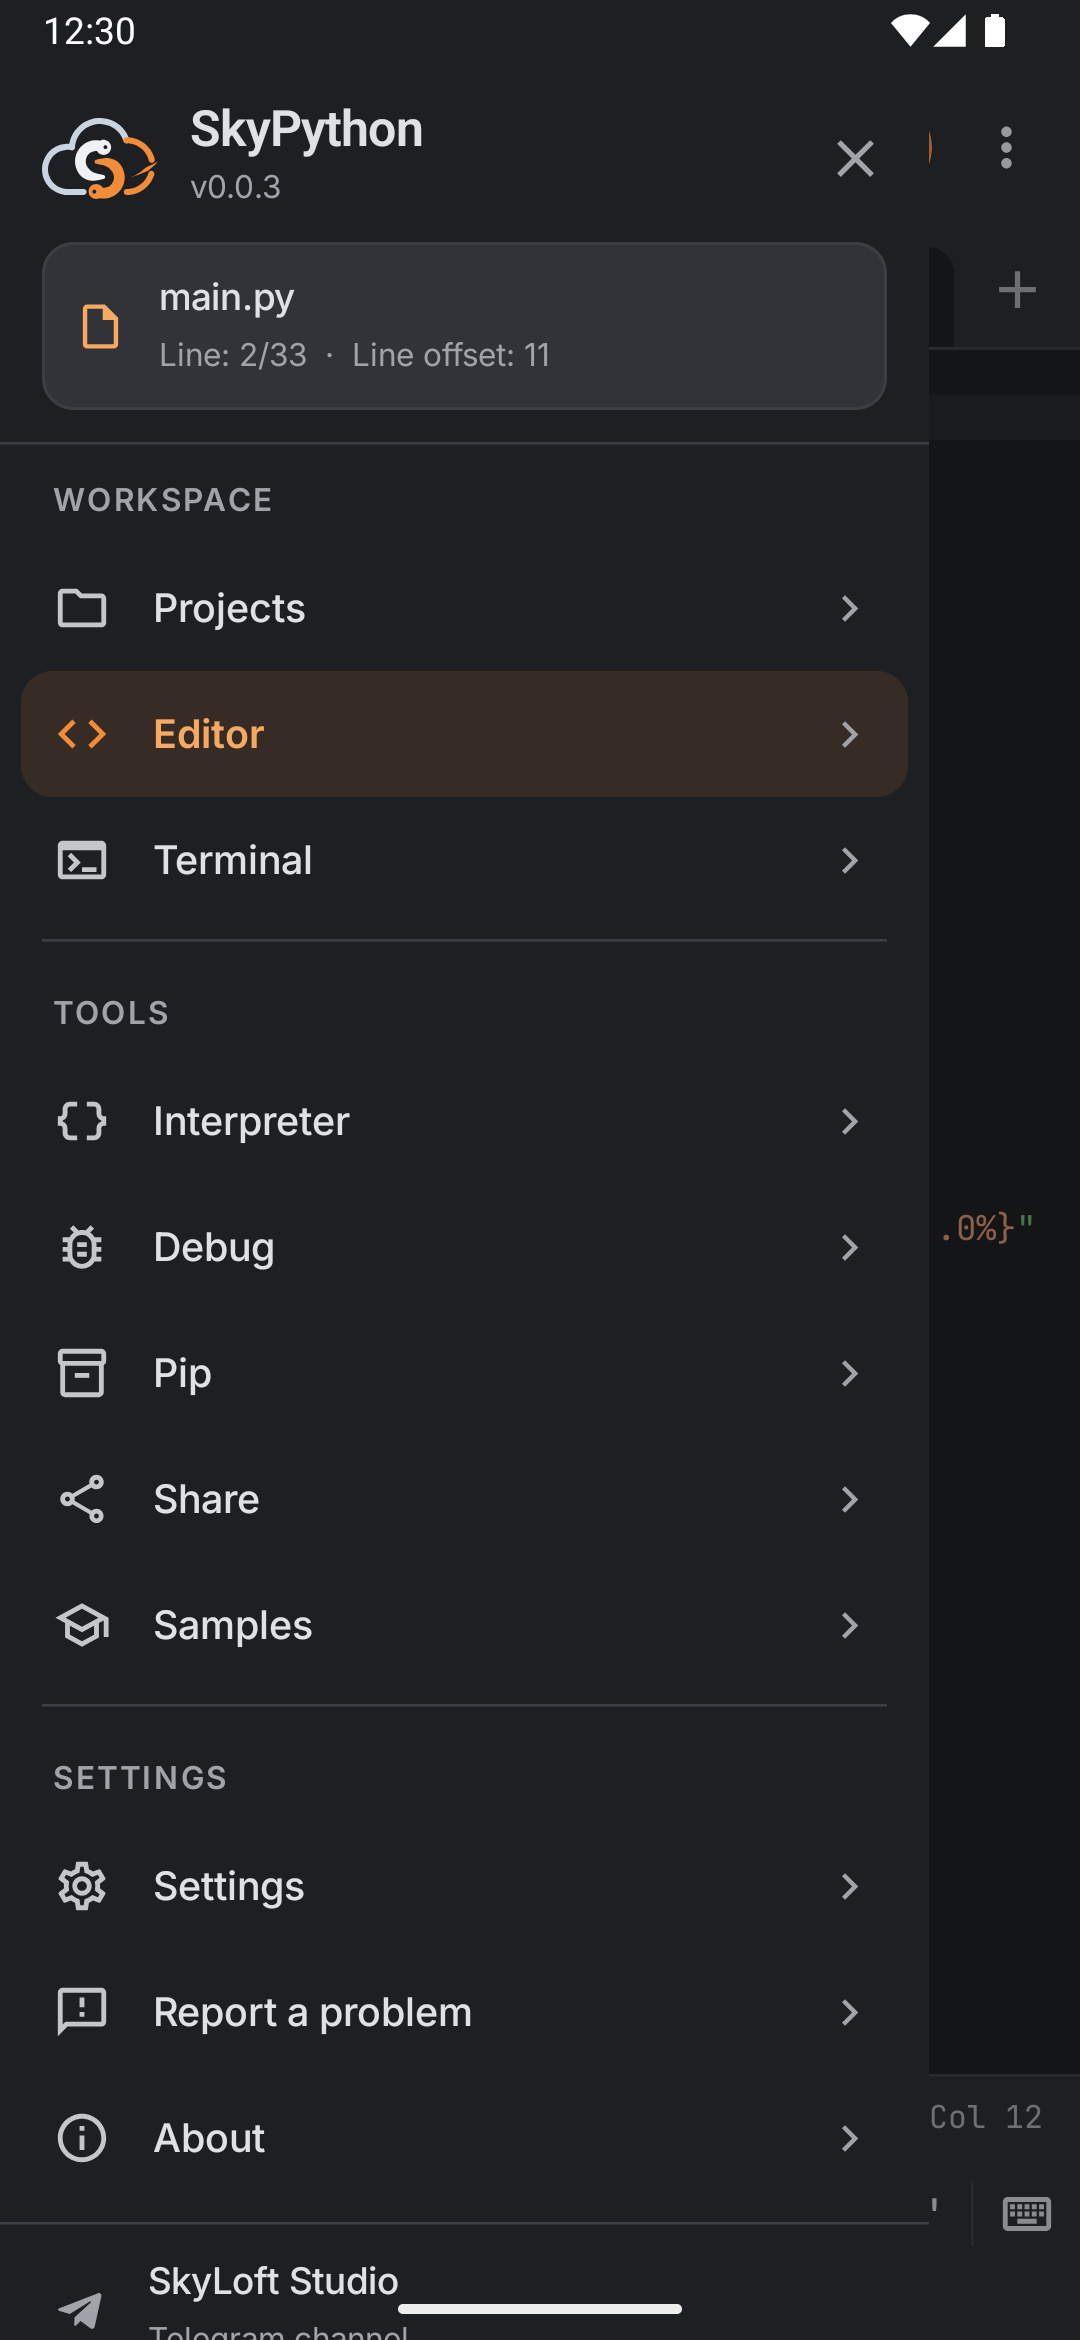
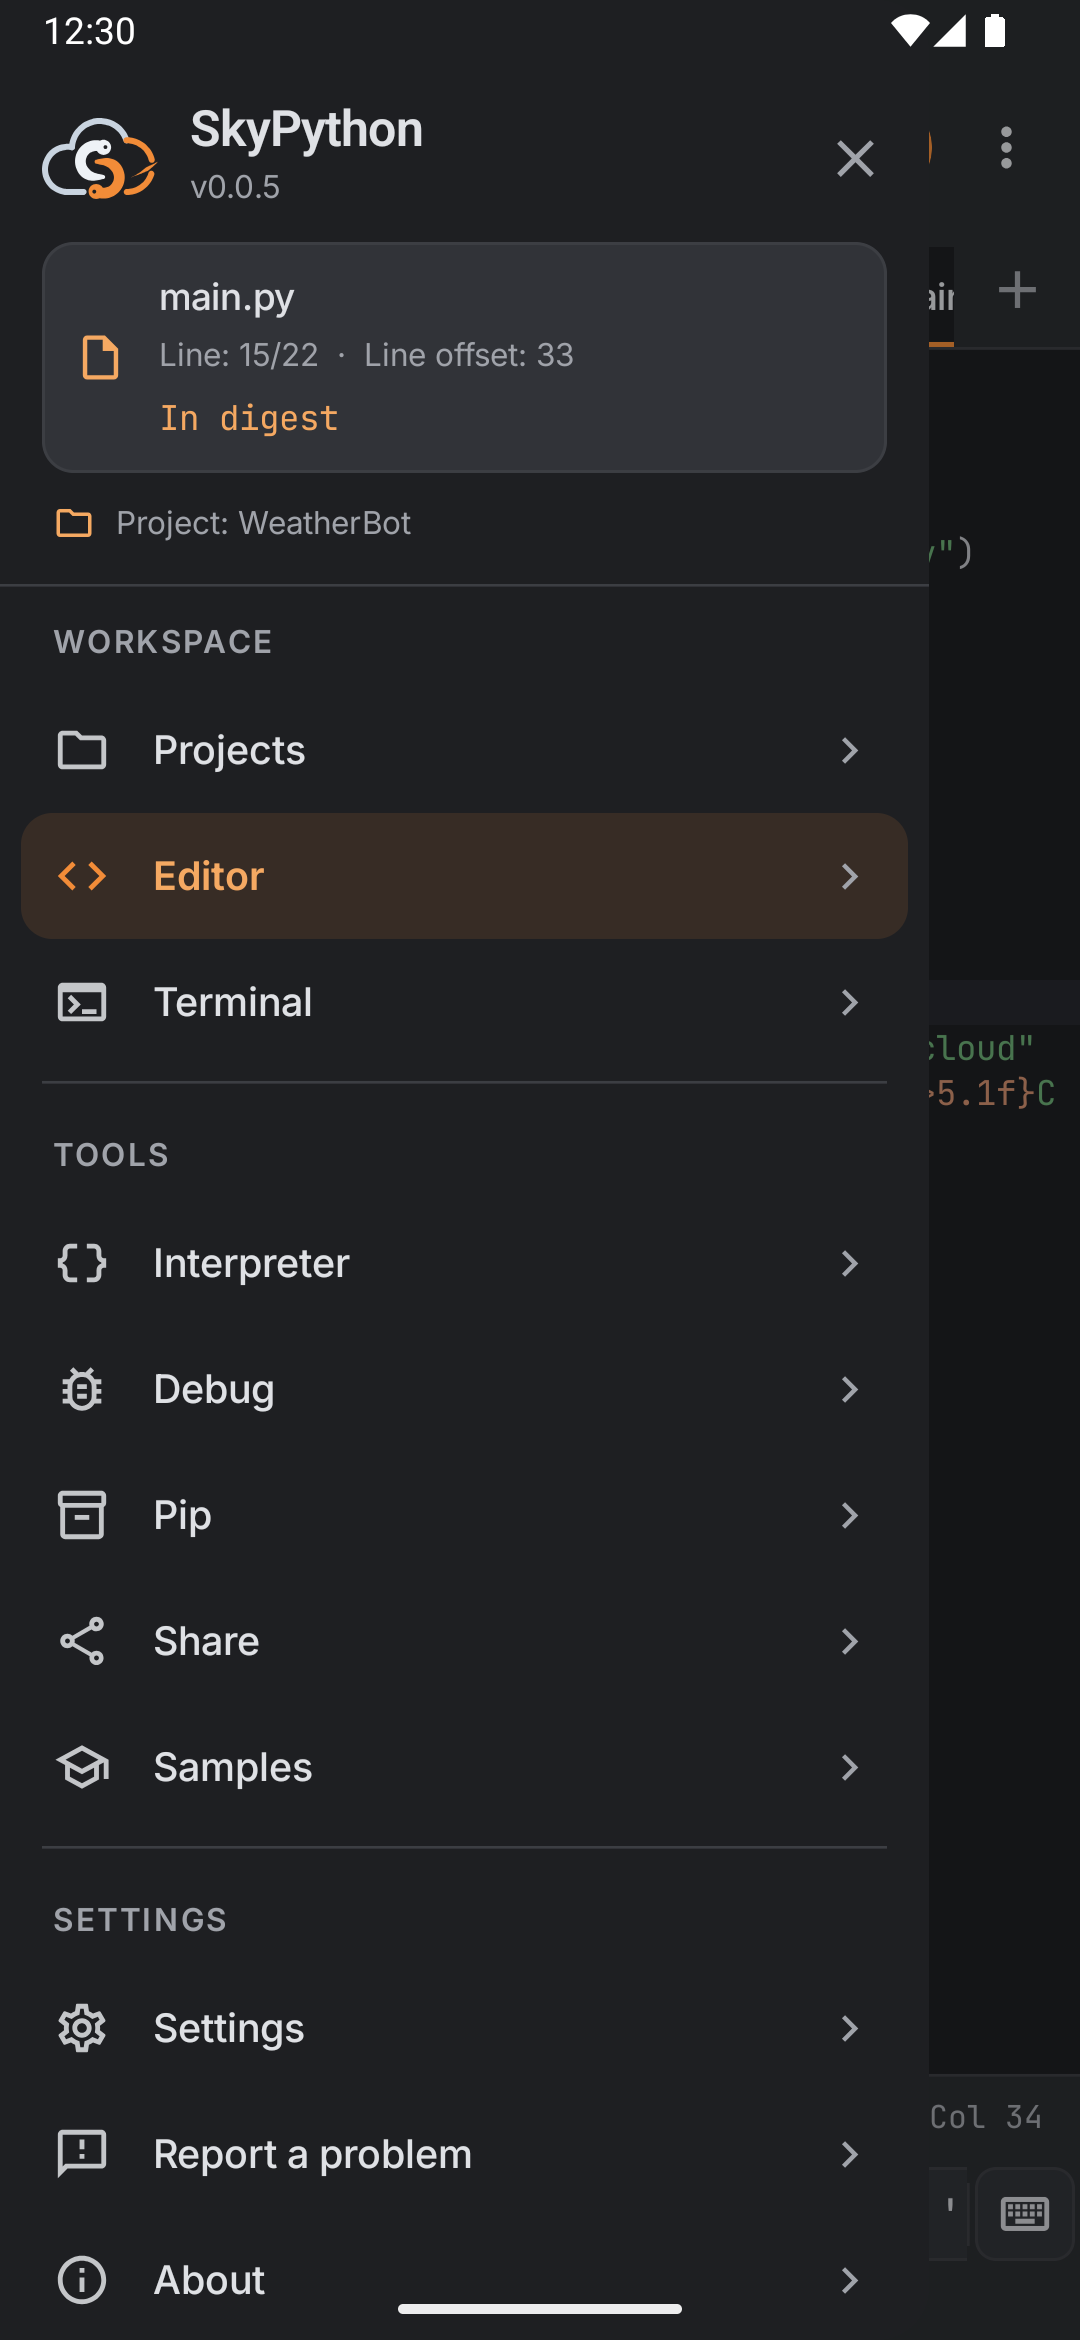
docs: 0.0.5 screenshots — projects, updates, Pillow

diff --git a/README.md b/README.md
@@ -109,6 +109,16 @@ Everything works **offline** except installing packages with pip.
   <img src="docs/screenshots/image_chip.png" width="24%" alt="Script that saved a picture">
   <img src="docs/screenshots/image_viewer.png" width="24%" alt="Image viewer">
 </p>
+<p align="center">
+  <img src="docs/screenshots/open_project.png" width="24%" alt="Open project">
+  <img src="docs/screenshots/folder_browser.png" width="24%" alt="Choosing a project folder">
+  <img src="docs/screenshots/files_project.png" width="24%" alt="Project files">
+  <img src="docs/screenshots/pillow_card.png" width="24%" alt="Picture card made with Pillow">
+</p>
+<p align="center">
+  <img src="docs/screenshots/update_banner.png" width="24%" alt="Update banner">
+  <img src="docs/screenshots/update.png" width="24%" alt="Update screen">
+</p>
 
 ## 📥 Install
 
